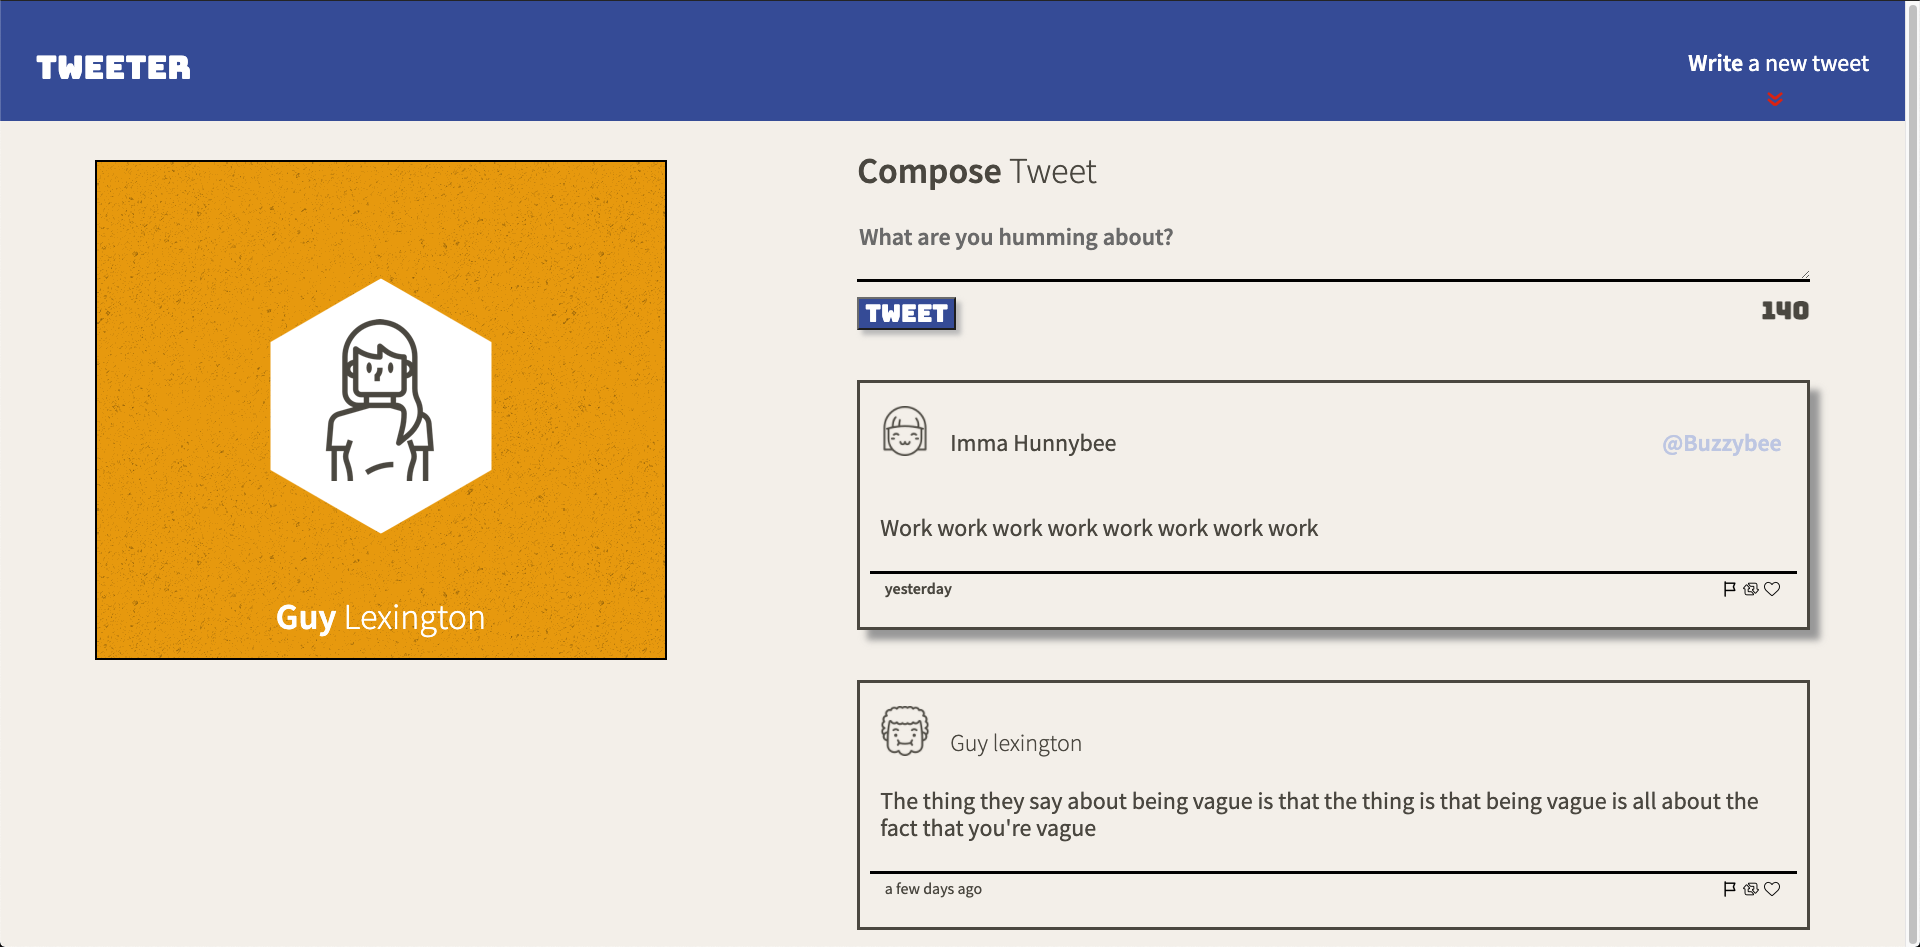
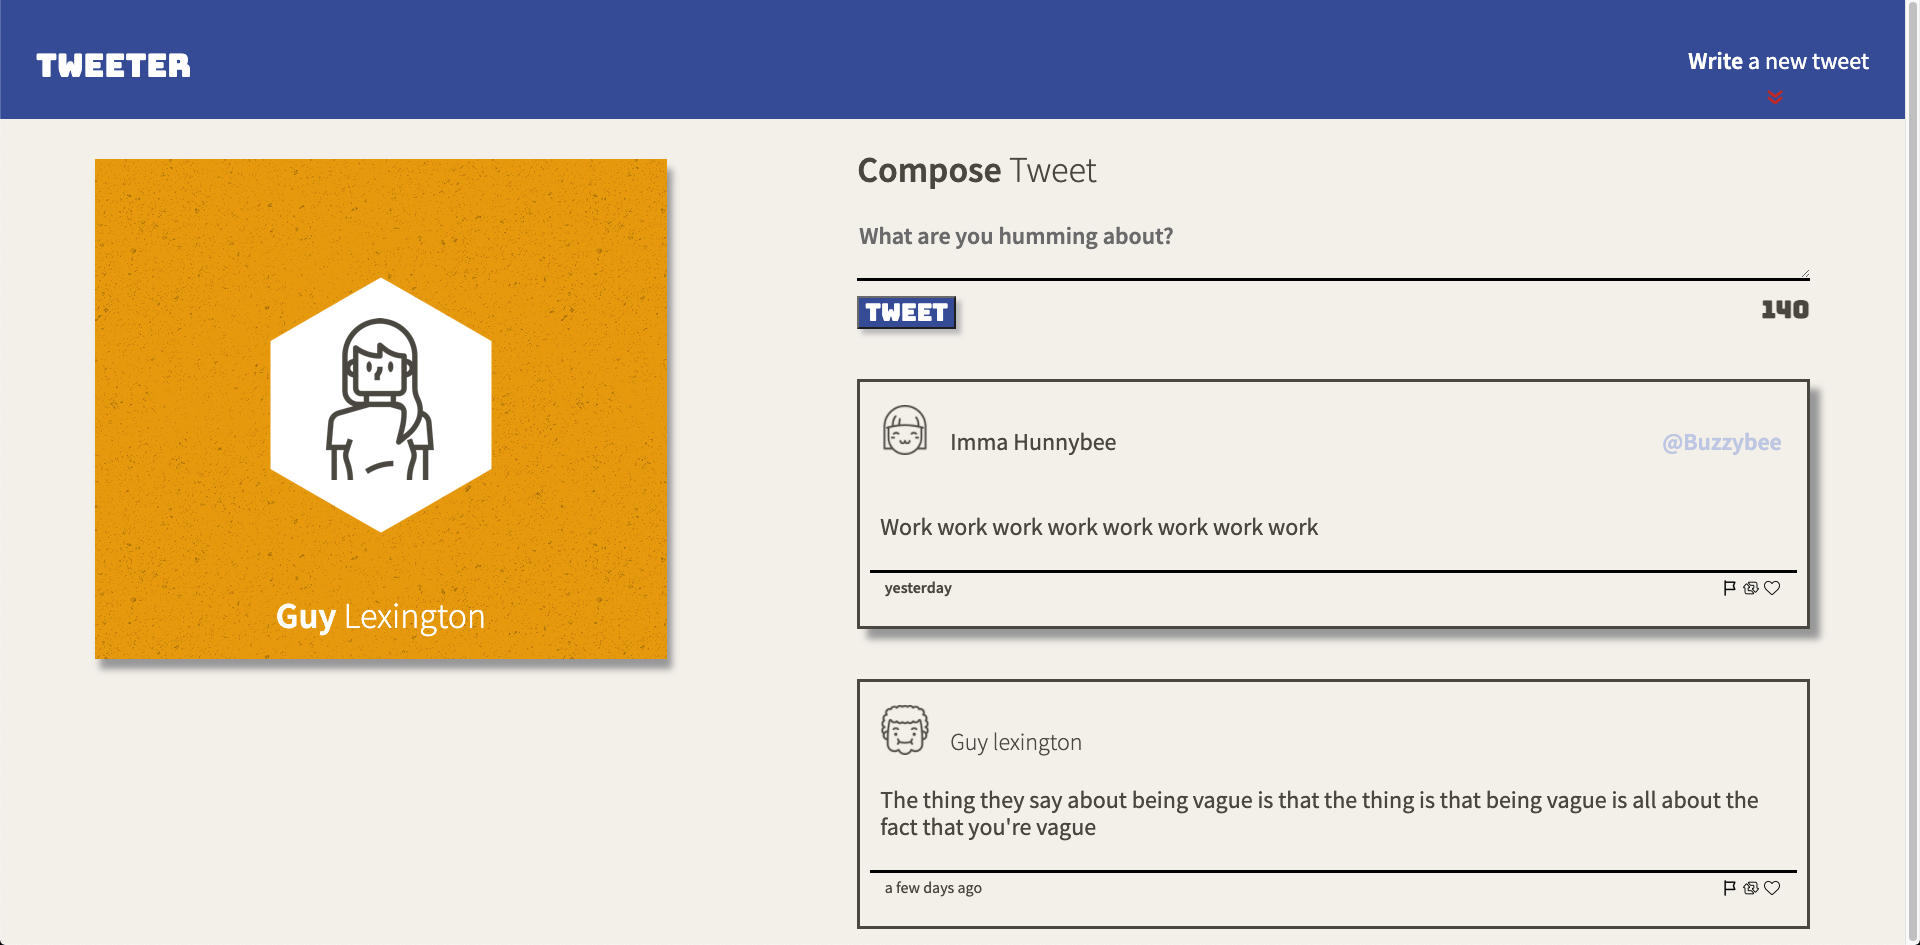
updates to screenshots

diff --git a/public/index.html b/public/index.html
@@ -23,6 +23,7 @@
     <!-- App JS -->
     <script type="text/javascript" src="/scripts/client.js"></script>
     <script type="text/javascript" src="/scripts/composer-char-counter.js"></script>
+    <script type="text/javascript" src="/scripts/stretch-features.js"></script>
     
     <!-- disable viewport zoom-->
     <meta name='viewport' content='width=device-width, initial-scale=1.0, maximum-scale=1.0' />
@@ -82,7 +83,7 @@
 
         <!-- jQuery appends new tweets here, see client.js createTweetElement function) -->
         <section id="tweets-container"></section>
-
       </main>
+      <img id="up-toggle" src="/images/icons/up.png"></img>
   </body>
 </html>

diff --git a/public/styles/layout.css b/public/styles/layout.css
@@ -57,10 +57,9 @@ body {
     width: 30%;
     margin-top: 160px;
     margin-left: 5%;
-    border: 2px solid black
+    box-shadow: 5px 10px 7px 0px rgba(161,161,161,1);
   }
 
- 
   div > img { /* image in profile header */
     padding-top: 10%
   }
@@ -72,5 +71,8 @@ body {
 
   .container { /* refers to main content area, prevents weirdness on large screen */
     max-width: 50%;
+  }
+  body > img#up-toggle {
+    margin-left: 96%;
   }
 }

diff --git a/public/styles/nav.css b/public/styles/nav.css
@@ -34,6 +34,13 @@ nav {
   font-size: 40px;
 }
 
+#up-toggle {
+  position: fixed;
+  bottom: 0;
+  margin-bottom: 14px;
+  margin-left: 90%;
+}
+
 
 
 
